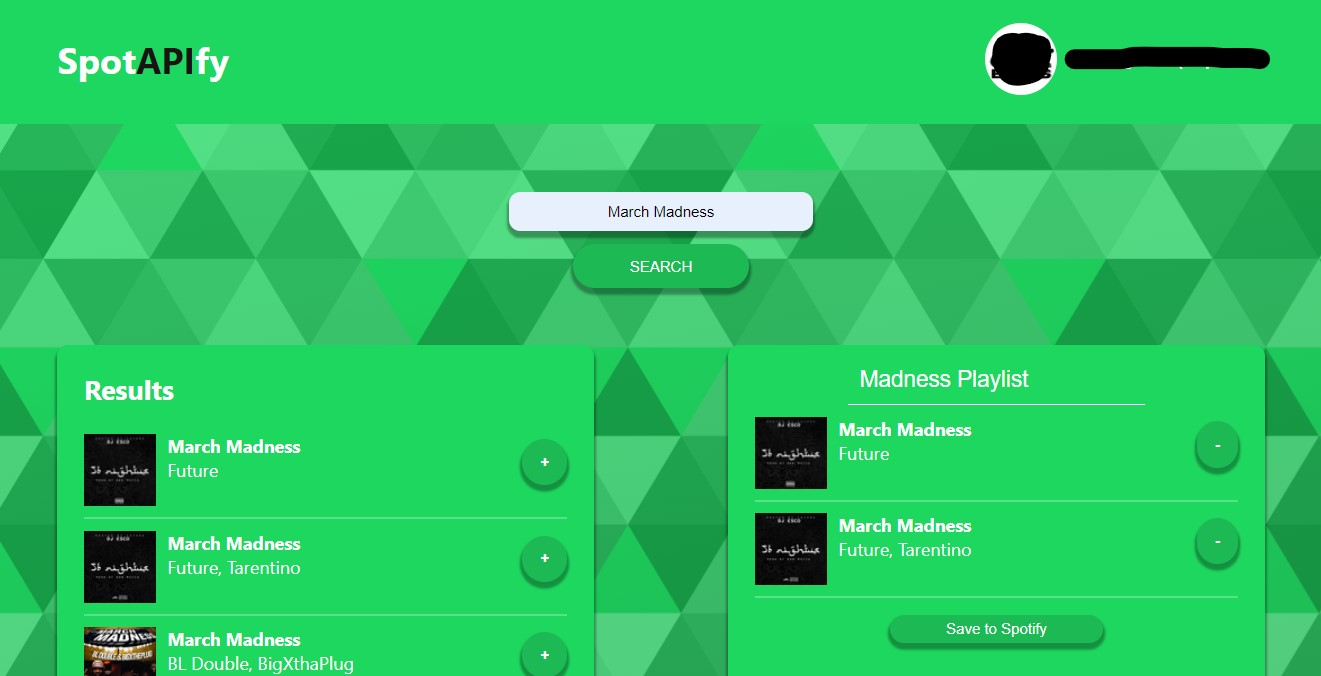
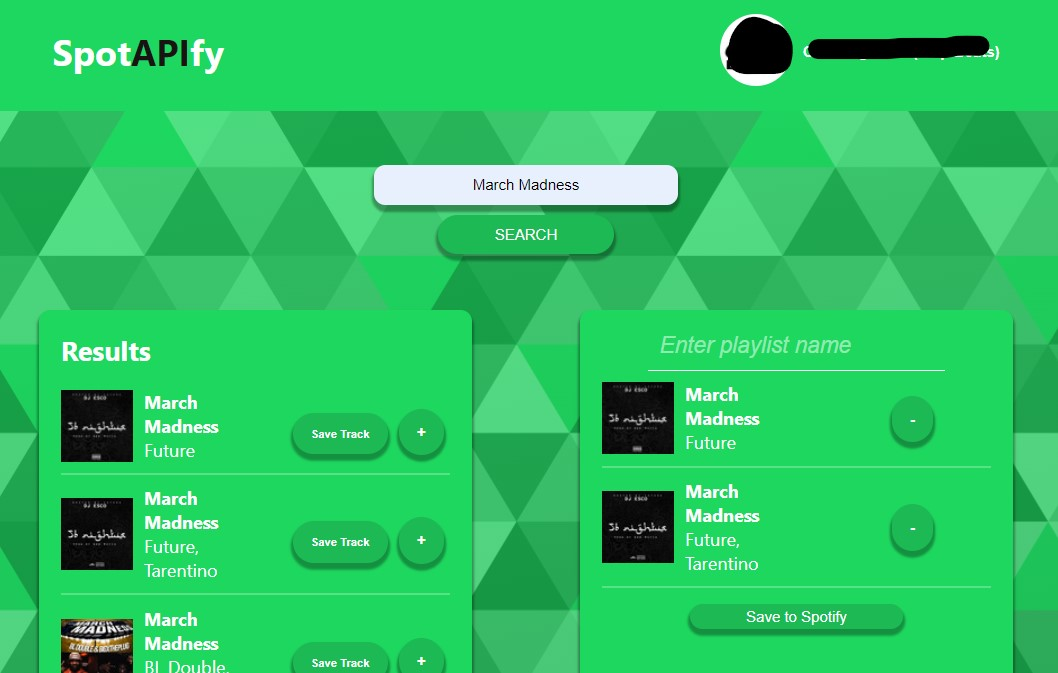
Save track functionality added

diff --git a/src/App.js b/src/App.js
@@ -18,7 +18,9 @@ function App() {
 
   // on mount: grab token stored in local storage
   useEffect(() => {
+    // retrieves the current URL hash portion
     const hash = window.location.hash
+    // attempts to retrieve a token from the browser's local storage
     let token = window.localStorage.getItem("token")
 
     if (!token && hash) {
@@ -62,11 +64,12 @@ function App() {
       });
   
       if (!response.ok) {
+        localStorage.removeItem("token");
+        window.location.reload(); 
         throw new Error('Network response was not ok');
       }
   
       const userData = await response.json();
-      console.log(userData);
       return userData; 
 
     } catch (error) {
@@ -154,6 +157,31 @@ function App() {
     window.location.reload();   
   }
 
+  const saveTrack = async (trackId) => {
+    
+    let curToken = token;
+    try {
+      const response = await fetch(`https://api.spotify.com/v1/me/tracks?ids=${trackId}`, {
+        method: 'PUT',
+        headers: {
+          'Authorization': `Bearer ${curToken}`,
+          'Content-Type': 'application/json'
+        },
+        body: JSON.stringify({
+          ids: [
+            trackId,
+          ],
+        })
+      });
+      if (!response.ok) {
+        throw new Error('Error saving track');
+      }
+
+    } catch (error) {
+      throw error;
+    }
+  }
+
   return (
     <div className="App" style={{minHeight: '100vh'}}>
       <div className="title">
@@ -167,7 +195,7 @@ function App() {
       <SearchBar token={token} updateTracklist={updateTracklist} />
       {token ? (
         <div className='flex'>
-          <Tracklist data={tracklist} addToPlaylist={addToPlaylist} />
+          <Tracklist data={tracklist} addToPlaylist={addToPlaylist} saveTrack={saveTrack} />
           <Playlist
             className='flexItem'
             playlist={playlist}

diff --git a/src/components/track/Track.jsx b/src/components/track/Track.jsx
@@ -1,7 +1,7 @@
 
 import styles from './Track.module.css'
 
-const Track = ({ data, addToPlaylist, removeFromPlaylist, origin }) => {
+const Track = ({ data, addToPlaylist, removeFromPlaylist, origin, saveTrack }) => {
 
   // Define variables for displaying artists
   // Create artist array if there is data
@@ -18,19 +18,27 @@ const Track = ({ data, addToPlaylist, removeFromPlaylist, origin }) => {
       }
   }
 
+  const onSave = () => {
+    saveTrack(data.id);
+  }
+
   return (
       <div key={data.id} className={styles.track}>
-      <div className={styles.info}>
-        <img src={data.album.images[2].url} alt={data.name}/>
-        <div className={styles.trackinfo}>
-          <h4>{data.name}</h4>
-          <p>{artists}</p>
-        </div>
-            
+        <div className={styles.info}>
+          <img src={data.album.images[2].url} alt={data.name}/>
+          <div className={styles.trackinfo}>
+            <h4>{data.name}</h4>
+            <p>{artists}</p>
           </div>
-          <button onClick={clickHandler}>{origin === 'tracklist' ? '+' : '-'}</button>
           
-    </div>
+      </div>
+      <div className={styles.btns}>
+        {origin === 'tracklist' ? <button className={styles.saveBtn} onClick={onSave}>Save Track</button> : ''}
+        <button onClick={clickHandler}>{origin === 'tracklist' ? '+' : '-'}</button> 
+
+      </div>
+         
+      </div>
   )
 }
 

diff --git a/src/components/searchbar/SearchBar.jsx b/src/components/searchbar/SearchBar.jsx
@@ -10,7 +10,7 @@ const SearchBar = ({ token, updateTracklist }) => {
     const REDIRECT_URI = "http://localhost:3000/"
     const AUTH_ENDPOINT = "https://accounts.spotify.com/authorize"
     const RESPONSE_TYPE = "token"
-    const SCOPE = "playlist-modify-private playlist-modify-public";
+    const SCOPE = ["playlist-modify-private", "playlist-modify-public", "user-library-modify"];
 
     // submit handler
     const submitHandler = async (e) => {
@@ -31,8 +31,8 @@ const SearchBar = ({ token, updateTracklist }) => {
         
             if (!response.ok) {
                 throw new Error("Network response was not ok");
-            }
-      
+          }
+          
             // grab data from response
             const data = await response.json();
 

diff --git a/src/components/track/Track.module.css b/src/components/track/Track.module.css
@@ -3,7 +3,7 @@
     justify-content: space-between;
     border-bottom: 2px solid rgba(255, 255, 255, 0.26);
     margin: 10px 5%;
-
+    align-items: center;
 }
 
 .track button {
@@ -19,8 +19,6 @@
 .track button:hover {
     background-color: #1ed760 !important;
     box-shadow: none;
-    transform: translateX(3px);
-    transform: translateY(4px);
     border: 3px solid #1db954;
 }
 
@@ -32,3 +30,22 @@
     gap: 10px;
 }
 
+.info img {
+    object-fit: contain;
+    display: flex;
+    align-items: center;
+}
+
+.saveBtn {
+    font-size: 10px;
+    padding: 10px 10px !important;
+    margin-right: 10px;
+}
+
+.trackinfo {
+    width: 50%;
+}
+
+.btns {
+    min-width: 140px;
+}

diff --git a/src/components/tracklist/Tracklist.jsx b/src/components/tracklist/Tracklist.jsx
@@ -1,14 +1,14 @@
 import Track from "../track/Track"
 import styles from './Tracklist.module.css'
 
-const Tracklist = ({ data, addToPlaylist }) => {
+const Tracklist = ({ data, addToPlaylist, saveTrack }) => {
     
   return (
     <div className={styles.tracklist} >
       <h2>Results</h2>
       {
         data !== undefined ?
-          data.map((track, index) => <Track key={track.id} data={data[index]} addToPlaylist={addToPlaylist} origin='tracklist' />)
+          data.map((track, index) => <Track key={track.id} data={data[index]} addToPlaylist={addToPlaylist} origin='tracklist' saveTrack={saveTrack} />)
           :
           <h3>No Tracks yet.</h3>
       }

diff --git a/src/components/searchbar/SearchBar.module.css b/src/components/searchbar/SearchBar.module.css
@@ -31,8 +31,6 @@ button:hover {
     cursor: pointer;
     
     box-shadow: none;
-    transform: translateX(3px);
-    transform: translateY(4px);
     border: 3px solid #1db954;
 }
 
